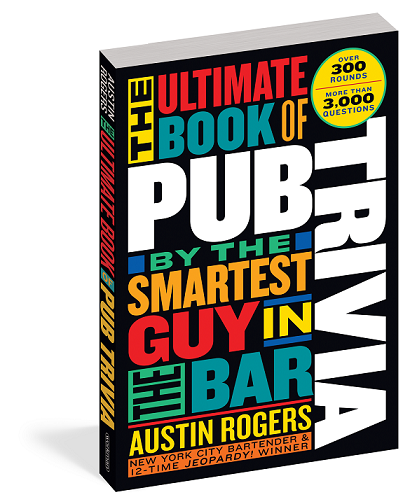
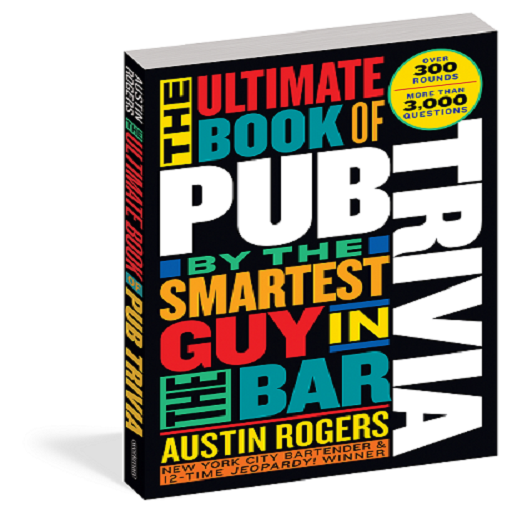
fixing layout issue

diff --git a/src/components/Product.tsx b/src/components/Product.tsx
@@ -30,7 +30,7 @@ const Product = ({ product, addComment }: Props) => {
                     component="img"
                     sx={{
                         pt: '10px',
-                        width: '50%',
+                        width: '30%',
                     }}
                     image={'images/' + product.img}
                     alt="random"
